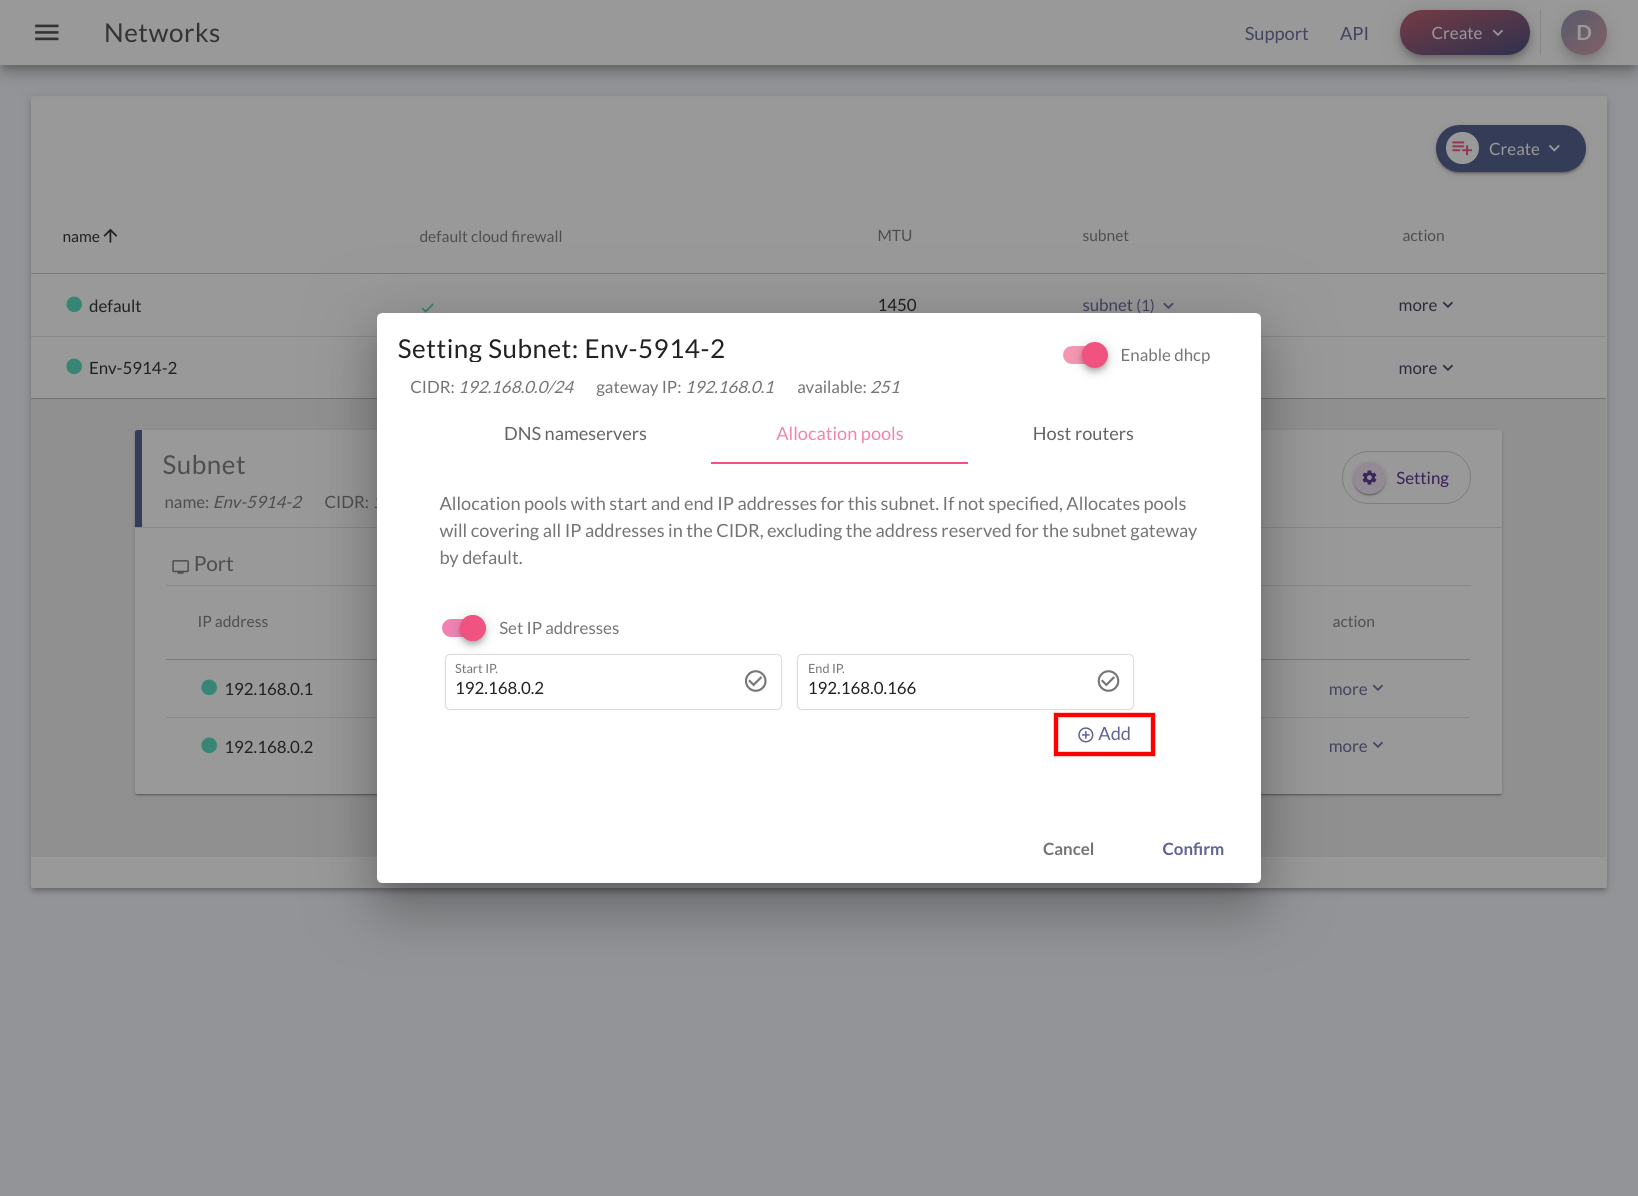
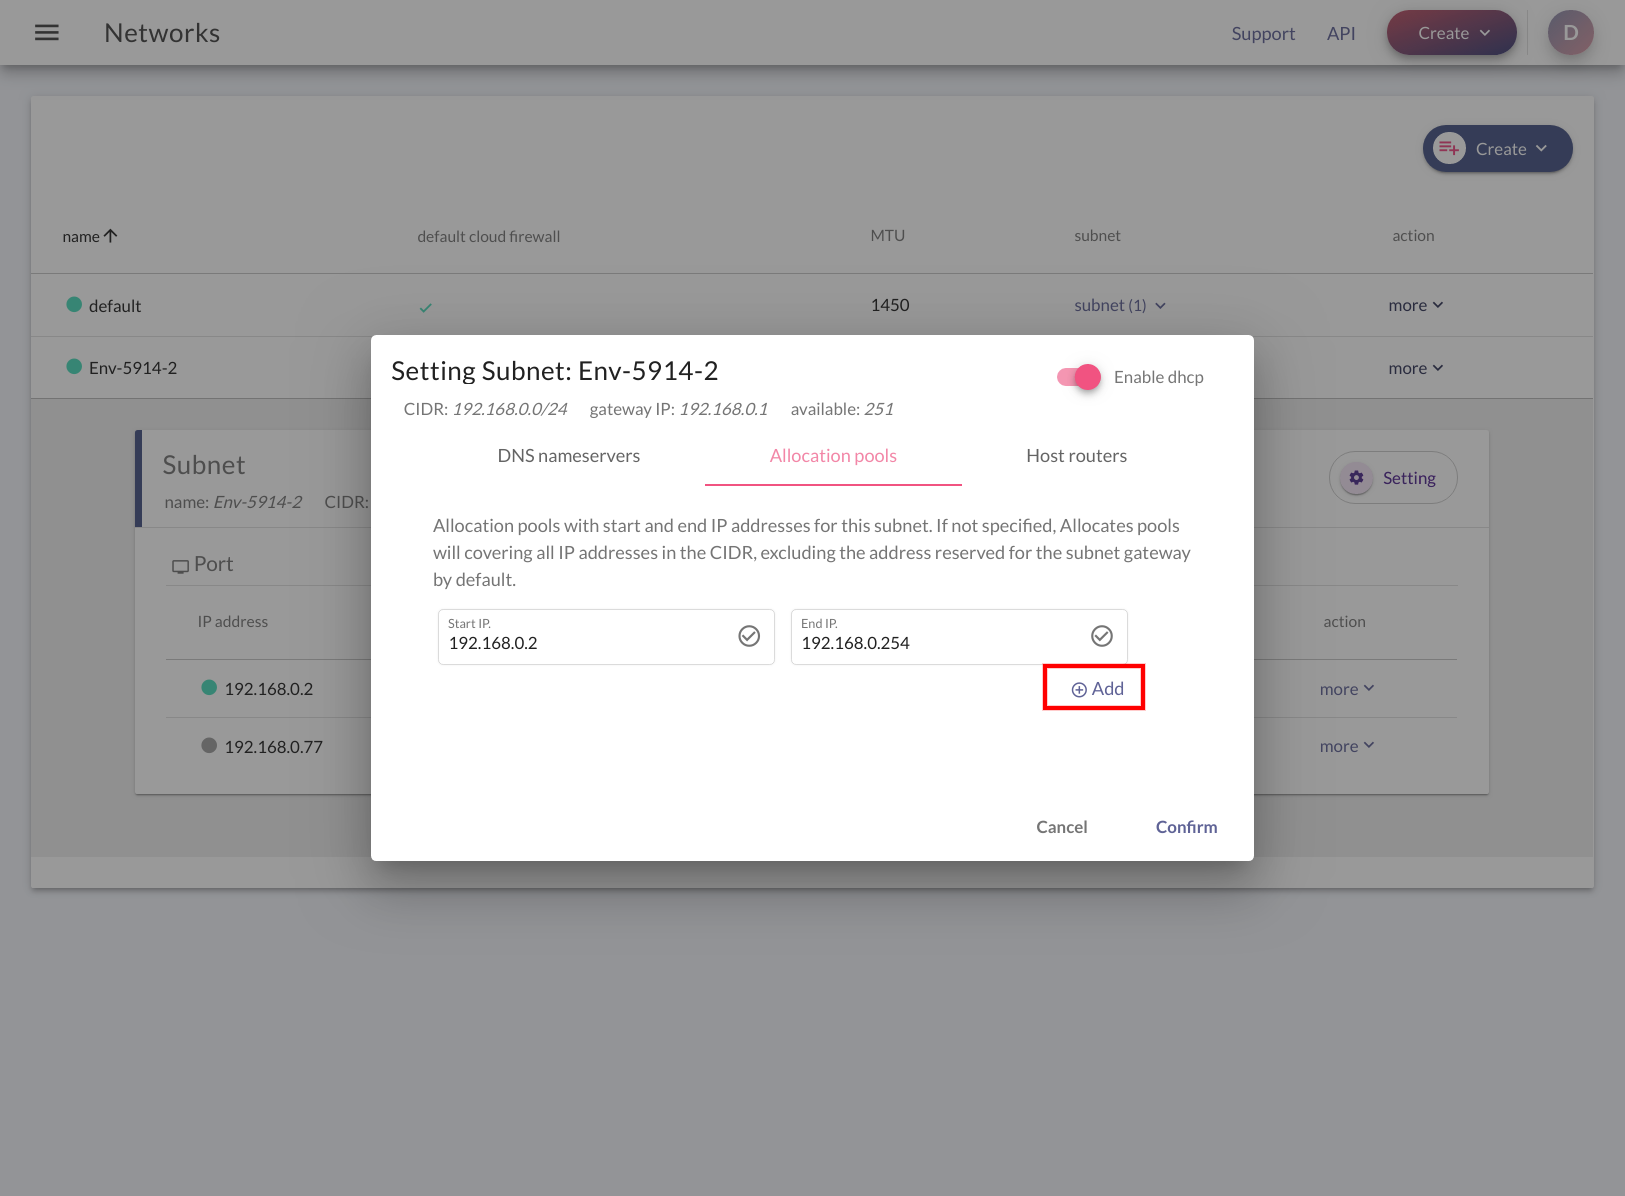
GitBook: [master] one page and 5 assets modified

diff --git a/networks/vpc-networks.md b/networks/vpc-networks.md
@@ -58,17 +58,17 @@ description: >-
 
 ![](../.gitbook/assets/vcp_network_12.png)
 
-3.กรอกชื่อใหม่ที่ต้องการตั้งให้ Router ลงในช่อง แล้วคลิกที่ปุ่ม "Confirm"  
+3.กรอกชื่อใหม่ที่ต้องการตั้งให้ Router ลงในช่อง แล้วคลิกที่ปุ่ม "Create"  
 
 ![](../.gitbook/assets/vcp_network_13.png)
 
-### Disable defualt cloud firewall
+### Disable default cloud firewall
 
 1.คลิกที่ "more"  ใน Column "action" ของ Network ที่ต้องการทำ Action  
 
 ![](../.gitbook/assets/vcp_network_9_3.png)
 
-2.เลือกเมนู "Disable defualt cloud firewall"  
+2.เลือกเมนู "Disable default cloud firewall"  
 
 ![](../.gitbook/assets/vcp_network_14.png)
 
@@ -134,19 +134,15 @@ description: >-
 
 ![](../.gitbook/assets/vcp_network_23.png)
 
-4.คลิกที่สวิตช์ "Set IP addresses" เพื่อเปิดการ Set IP  
-
-![](../.gitbook/assets/vcp_network_24.png)
-
-5.กำหนด IP Range ลงในช่องข้อความ  
+4.กำหนด IP Range ลงในช่องข้อความ  
 
 ![](../.gitbook/assets/vcp_network_25.png)
 
-6.คลิกที่ปุ่ม "Add" หากต้องการเพิ่ม IP Range \(Optional\)  
+5.คลิกที่ปุ่ม "Add" หากต้องการเพิ่ม IP Range \(Optional\)  
 
 ![](../.gitbook/assets/vcp_network_26.png)
 
-7.คลิกที่ปุ่ม "Confirm"  
+6.คลิกที่ปุ่ม "Confirm"  
 
 ![](../.gitbook/assets/vcp_network_27.png)
 
@@ -162,7 +158,7 @@ description: >-
 
 ![](../.gitbook/assets/vcp_network_17_4.png)
 
-3.เลือกเมนู "Host router"  
+3.เลือกเมนู "Host routers"  
 
 ![](../.gitbook/assets/vcp_network_28.png)
 
